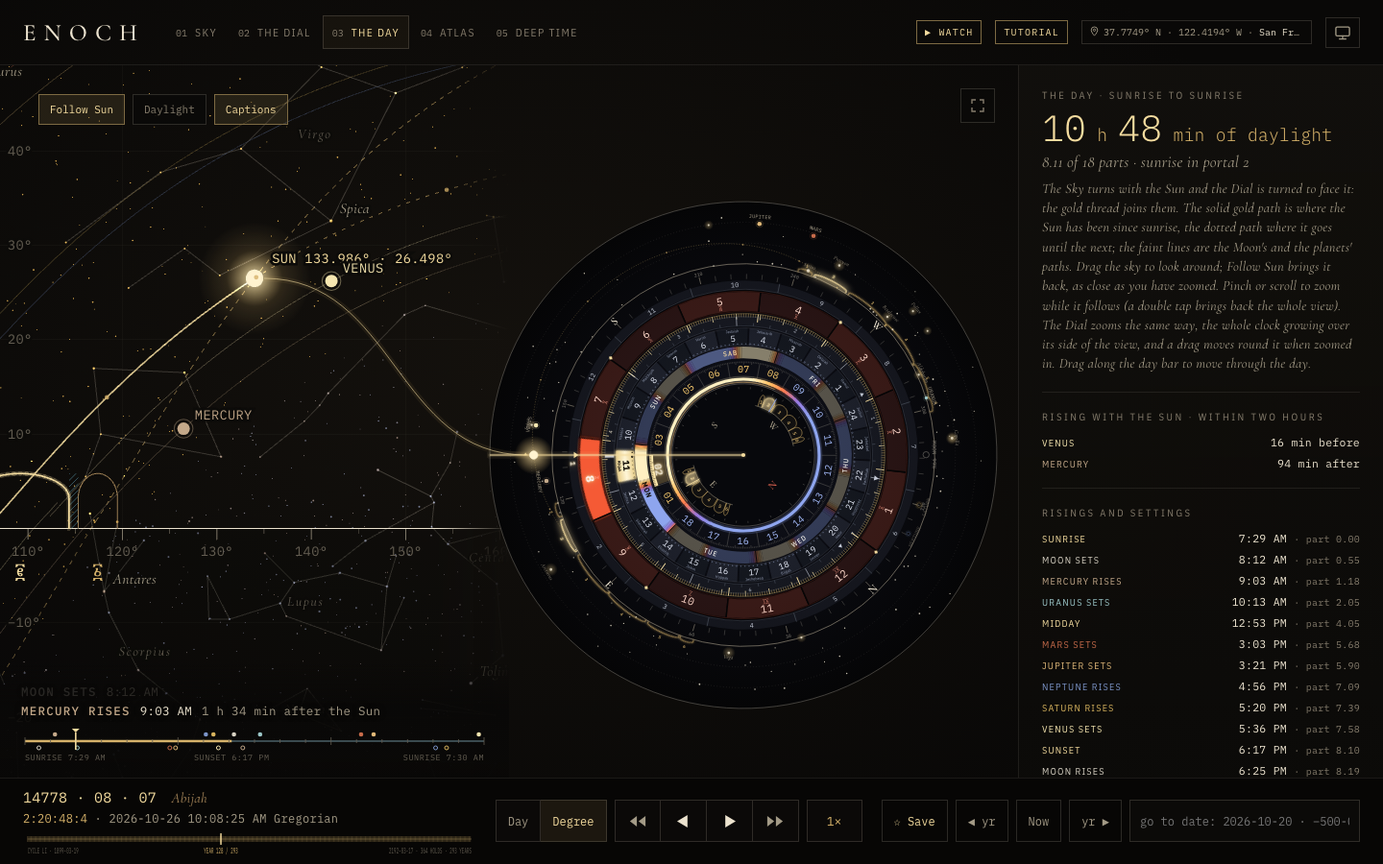
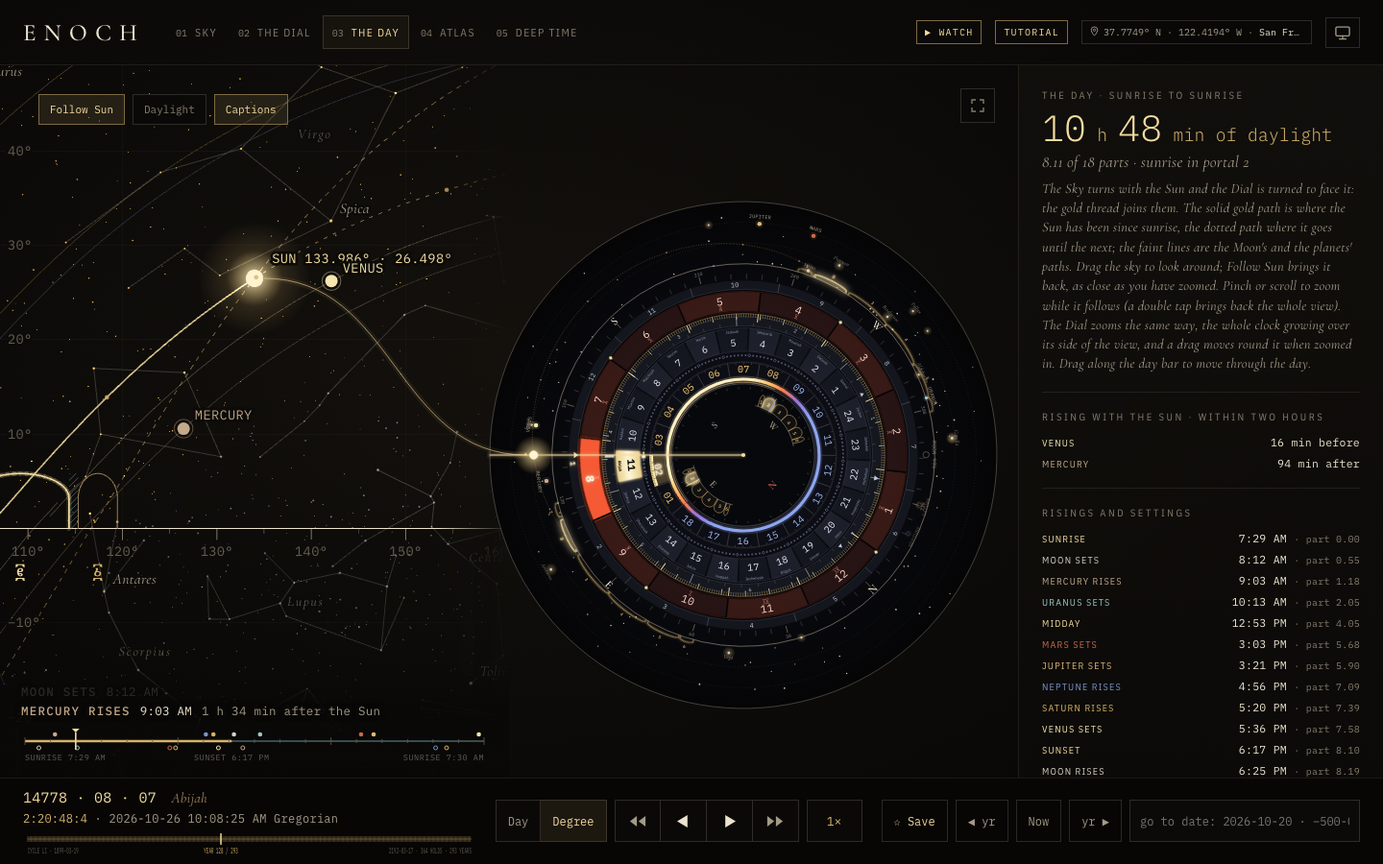
feat(dial): the week back to beads; on paper each ring its own shade and the centre night
The week ring did not work in use: turning once a week, it is a blur in playback and one more band to read. The week is
again a necklace of beads inside the courses, seven under each (Sunday to the Sabbath): served, filled gold; today, the
large lit one; the Sabbath, a ring. They are larger than before the ring (2 units, today 3.6) and belong to the courses'
tap. The courses keep their large numbers, with the width back (19 px numerals).

On paper (Light, Sepia) the inner rings were one tan wash. Each now has its own shade, as each has its own light in Dark:
cool pewter for the courses and the two counts against the warm vellum, the parts on the lightest vellum, gold leaf for
what is now (the course's window, the day's light, the part), lapis for the night, vermilion months. They are tokens
(--dl-tone-*; words on what is lit are --dl-on-lit). And the centre is night there as the sky band is: the sky chart's
stars are in it, so they are light, the portals' arches glow as the rim's do, and the Sun's line is light across the
centre, ink across the paper rings, light again across the band.

Dark changes only by the week (beads for the ring); Sky, Atlas and Deep Time are untouched. 164 paths; playback 60 / 59 /
57 fps as before. The README's Dial screenshots are retaken.

Changed region(s): [[0.4375, 0.3733, 0.625, 0.6533]]

diff --git a/src/dial/render.ts b/src/dial/render.ts
@@ -12,26 +12,24 @@ import { GEEZ, pillars, PORTAL_ALT } from '../model';
 import { archPath, seamPath, within } from './portals';
 import type { YearDoc } from '../types';
 import { ringRotation, type DialState } from './state';
-import { alpha, bodyColor, C as PAGE, DARK, paletteGeneration, paper, starGain, type Palette } from '../palette';
+import { alpha, bodyColor, C as PAGE, DARK, paletteGeneration, paper, starGain, type Palette, type PaletteKey } from '../palette';
 
 const NS = 'http://www.w3.org/2000/svg';
 export const DR = {
   band1: 498, horizon: 376, band0: 356, tick1: 356, tick0: 346, um1: 344, um0: 326, mo1: 322, mo0: 282, pos0: 276,
-  cor1: 272, cor0: 254, crs1: 250, crs0: 216, wk1: 213, wk0: 190, pt1: 184, pt0: 154, day1: 152, day0: 146, cmp: 140,
+  cor1: 272, cor0: 254, crs1: 250, crs0: 204, bead: 196, pt1: 184, pt0: 154, day1: 152, day0: 146, cmp: 140,
 };
-export type RingKey = 'sky' | 'bearing' | 'uncorrected' | 'position' | 'correction' | 'courses' | 'weekday' | 'parts' | 'compass';
+export type RingKey = 'sky' | 'bearing' | 'uncorrected' | 'position' | 'correction' | 'courses' | 'parts' | 'compass';
 /** Hit bands (viewBox radius), outermost first: what a tap on the face selects. */
 const BANDS: { key: RingKey; r0: number; r1: number }[] = [
   { key: 'sky', r0: DR.horizon, r1: DR.band1 + 2 }, { key: 'bearing', r0: DR.band0 - 12, r1: DR.horizon },
   { key: 'uncorrected', r0: DR.um0 - 2, r1: DR.um1 + 1 }, { key: 'position', r0: DR.pos0 - 12, r1: DR.mo1 + 3 },
-  { key: 'correction', r0: DR.cor0 - 2, r1: DR.cor1 + 1 }, { key: 'courses', r0: DR.crs0 - 2, r1: DR.crs1 + 1 }, { key: 'weekday', r0: DR.wk0 - 3, r1: DR.crs0 - 2 },
+  { key: 'correction', r0: DR.cor0 - 2, r1: DR.cor1 + 1 }, { key: 'courses', r0: DR.pt1 + 2, r1: DR.crs1 + 1 },   // the courses, with the week's beads inside them
   { key: 'parts', r0: DR.day0 - 6, r1: DR.pt1 + 2 }, { key: 'compass', r0: 0, r1: DR.cmp },
 ];
 const ALT_MIN = -12, K = (DR.band1 - DR.horizon) / 90;
 const altRadius = (alt: number) => DR.horizon + Math.max(ALT_MIN, alt) * K;
 const MS = [1, 31, 61, 92, 122, 152, 183, 213, 243, 274, 304, 334, 365];
-/** The week, Sunday to the Sabbath (state.ts phases.weekday). */
-const WEEK = ['SUN', 'MON', 'TUE', 'WED', 'THU', 'FRI', 'SAB'];
 
 const rad = (deg: number) => (deg * Math.PI) / 180;
 const polar = (r: number, th: number): [number, number] => [r * Math.sin(rad(th)), -r * Math.cos(rad(th))];
@@ -145,9 +143,9 @@ export function createDial(svg: SVGSVGElement, C: Palette = PAGE) {
       const mark = el('circle', { r: 0.6, fill: 'none', 'data-ring-mark': name }, layer.g);
       rings.push({ name, layer, units, dir, cur, mark, markR }); return { g: layer.g, at, layer };
     };
-    /** A ring's ground between r0 and r1: in light a pane of glass, nearly clear; on paper a wash of ink, toned enough to set the ring off the page. */
-    const tone = (a: number) => (ink ? Math.min(0.5, a * 2.4) : a);
-    const glass = (r0: number, r1: number, a: number, parent: Element) => el('path', { d: dot(0, 0, r1) + dot(0, 0, r0), fill: alpha('dlGlass', tone(a), C), 'fill-rule': 'evenodd' }, parent);
+    /** A ring's ground between r0 and r1. In light: a pane of glass, nearly clear (opacity a). On paper: the ring's own tone, an opaque shade that sets it off the
+     *  page and off its neighbours (cool pewter for the courses and the counts against the warm vellum; the parts on the lightest vellum). */
+    const glass = (r0: number, r1: number, a: number, parent: Element, tone: PaletteKey) => el('path', { d: dot(0, 0, r1) + dot(0, 0, r0), fill: ink ? C[tone] : alpha('dlGlass', a, C), 'fill-rule': 'evenodd' }, parent);
     const hair = (r: number, color: string, opacity: number, parent: Element) => el('circle', { r, fill: 'none', stroke: color, 'stroke-opacity': opacity, 'stroke-width': 0.55 }, parent);
 
     // ------------------------------------------------ world (true bearings, turned by the framing)
@@ -159,7 +157,7 @@ export function createDial(svg: SVGSVGElement, C: Palette = PAGE) {
     for (const alt of [30, 60]) el('circle', { r: altRadius(alt), fill: 'none', stroke: N.dlLine, 'stroke-width': 0.5, 'stroke-dasharray': '1 5' }, W);
     let ticks = '', majors = '';
     for (let b = 0; b < 360; b += 5) if (b % 30) ticks += `M${P(DR.tick0, b)}L${P(DR.tick1, b)}`; else majors += `M${P(DR.tick0, b)}L${P(DR.tick1 + 4, b)}`;
-    if (ink) glass(DR.tick0 - 1, DR.band0, 0.09, W);          // on paper the bearings sit on their own tone
+    if (ink) glass(DR.tick0 - 1, DR.band0, 0, W, 'dlToneBearing');   // on paper the bearings sit on their own tone
     el('path', { d: ticks, stroke: C.dlLine, 'stroke-width': 0.6 }, W); el('path', { d: majors, stroke: C.ivory2, 'stroke-width': 1 }, W);
     for (const [b, t] of [[0, 'N'], [90, 'E'], [180, 'S'], [270, 'W']] as const) world.label(DR.horizon - 10, b, t, { class: 'dl-card' });
     for (let b = 30; b < 360; b += 30) if (b % 90) world.label(DR.horizon - 10, b, String(b), { class: 'dl-tiny' });
@@ -180,30 +178,30 @@ export function createDial(svg: SVGSVGElement, C: Palette = PAGE) {
     }
     // centre: the disc, the optional sky chart (redrawn per instant, screen angles), then on top the compass and the six portals east and west: the same
     // arches as on the horizon and in Sky, standing on the centre's own horizon, numbered 1 to 6, today's two lit; and today's sunrise and sunset bearings
-    el('circle', { r: DR.cmp, fill: C.dlDisc, stroke: C.dlLine, 'stroke-width': 0.8 }, W);
-    chart = el('g', { class: 'dl-chart' }, root) as SVGGElement;
-    centre = new Layer(root, 'dl-centre'); const Z = centre.g;
+    el('circle', { r: DR.cmp, fill: ink ? rgrad('core', 0, DR.cmp, [C.dlRim0, C.dlRim1]) : C.dlDisc, stroke: C.dlLine, 'stroke-width': 0.8 }, W);   // on paper the centre is night as the band is: the sky chart's stars are there, and the portals' arches glow as the rim's do
+    chart = el('g', { class: ink ? 'dl-chart dl-night' : 'dl-chart' }, root) as SVGGElement;
+    centre = new Layer(root, ink ? 'dl-centre dl-night' : 'dl-centre'); const Z = centre.g;
     const inner = (alt: number) => 100 + (alt / PORTAL_ALT) * 24;
     for (const [PP, bearing] of [[doc.portals, s.row.azimuth_deg], [doc.portals_west, e.sunset_azimuth_deg]] as const) {
       const lo = Math.min(...PP.map((p) => p.common[0])) - 3, hi = Math.max(...PP.map((p) => p.common[1])) + 3;
-      el('path', { d: `M${P(100, lo)}A100 100 0 0 1 ${P(100, hi)}`, fill: 'none', stroke: C.ivory2, 'stroke-width': 0.9, class: 'dl-portal' }, Z);
+      el('path', { d: `M${P(100, lo)}A100 100 0 0 1 ${P(100, hi)}`, fill: 'none', stroke: N.ivory2, 'stroke-width': 0.9, class: 'dl-portal' }, Z);
       for (const p of PP) {
         const on = within(p, bearing);
-        el('path', { d: archPath(p, inner), fill: alpha(on ? 'goldHi' : 'gold', on ? 0.2 : 0.05, C), stroke: on ? C.goldHi : C.gold, 'stroke-width': on ? 1.6 : 1, 'stroke-linejoin': 'round',
-          filter: on ? glow('soft') : undefined, class: on ? 'dl-portal dl-arch-on' : 'dl-portal', 'data-portal-in': p.portal }, Z);
+        el('path', { d: archPath(p, inner), fill: alpha(on ? 'goldHi' : 'gold', on ? 0.2 : 0.05, N), stroke: on ? N.goldHi : N.gold, 'stroke-width': on ? 1.6 : 1, 'stroke-linejoin': 'round',
+          filter: on ? glowN('soft') : undefined, class: on ? 'dl-portal dl-arch-on' : 'dl-portal', 'data-portal-in': p.portal }, Z);
         centre.label(110, (p.common[0] + p.common[1]) / 2, String(p.portal), { class: on ? 'dl-pn dl-on' : 'dl-pn' });
       }
     }
-    for (const [b, col] of [[s.row.azimuth_deg, C.goldHi], [e.sunset_azimuth_deg, C.dlSkyNight]] as const) el('path', { d: `M${P(98, b)}L${P(128, b)}`, stroke: col, 'stroke-width': 1.6 }, Z);
+    for (const [b, col] of [[s.row.azimuth_deg, N.goldHi], [e.sunset_azimuth_deg, N.dlSkyNight]] as const) el('path', { d: `M${P(98, b)}L${P(128, b)}`, stroke: col, 'stroke-width': 1.6 }, Z);
     for (const [b, t] of [[0, 'N'], [90, 'E'], [180, 'S'], [270, 'W']] as const) centre.label(82, b, t, { class: b === 0 ? 'dl-cmp dl-north' : 'dl-cmp' });
     let ct = ''; for (let b = 0; b < 360; b += 10) ct += `M${P(130, b)}L${P(b % 90 ? 134 : 138, b)}`;
-    el('path', { d: ct, stroke: C.dlLine, 'stroke-width': 0.6 }, Z);
+    el('path', { d: ct, stroke: N.dlLine, 'stroke-width': 0.6 }, Z);
     bodies = el('g', { class: ink ? 'dl-bodies dl-night' : 'dl-bodies' }, root) as SVGGElement;
 
     // ------------------------------------------------ calendar rings (all continuous: the gear train in state.ts)
     // R6 uncorrected month (the paper's 364-day count, no correction), anticlockwise
     { const { g, at, layer } = ring('uncorrected', 364, -1, (x) => x.phases.uncorrected, (DR.um0 + DR.um1) / 2);
-      glass(DR.um0 + 1, DR.um1 - 1, 0.07, g);
+      glass(DR.um0 + 1, DR.um1 - 1, 0.07, g, 'dlToneCount');
       el('circle', { r: DR.um0, fill: 'none', stroke: C.dlCountDim, 'stroke-width': 0.6 }, g);
       let t = ''; for (let m = 1; m <= 12; m++) { const a0 = at(MS[m - 1] - 1), a1 = at(MS[m] - 1); t += `M${P(DR.um0, a0)}L${P(DR.um1, a0)}`;
         layer.label((DR.um0 + DR.um1) / 2, (a0 + a1) / 2, String(m), { class: m === e.uncorrected_month ? 'dl-um dl-on' : 'dl-um' }); }
@@ -211,7 +209,7 @@ export function createDial(svg: SVGSVGElement, C: Palette = PAGE) {
     // R5 months and the 364 positions (corrected), anticlockwise; hold marks; the quarter leaders. In light the months are ember glass, the month now
     // solid; on paper they are painted (rubricated)
     { const { g, at, layer } = ring('position', 364, -1, (x) => x.phases.position, (DR.mo0 + DR.mo1) / 2);
-      glass(DR.cor0 + 1, DR.cor1 - 1, 0.07, g);              // the correction ring's ground, under this ring's ticks
+      glass(DR.cor0 + 1, DR.cor1 - 1, 0.07, g, 'dlToneCount');   // the correction ring's ground, under this ring's ticks
       for (let m = 1; m <= 12; m++) {
         const a0 = at(MS[m] - 1), a1 = at(MS[m - 1] - 1), on = m === s.row.month;
         el('path', { d: sectorPath(DR.mo0, DR.mo1, a0, a1), fill: on ? C.dlRed : ink ? (m % 2 ? C.dlOx2 : C.dlOx) : alpha('dlRed', m % 2 ? 0.2 : 0.13, C), stroke: C.dlOxEdge, 'stroke-width': ink ? 1.4 : 2.6,
@@ -238,39 +236,30 @@ export function createDial(svg: SVGSVGElement, C: Palette = PAGE) {
       el('path', { d: sectorPath(DR.cor0, DR.cor1, at(e.correction_day - 1), at(e.correction_day)), fill: C.dlCount }, g);
       tri(DR.cor1 - 2, at(0), 'l-5 9h10z', C.dlCount, g);
     }
-    // R3 the 24 priestly courses, anticlockwise; each course is one week. Read at a glance: its number, the course now a lit window. To zoom into: its
-    // name, and the week's seven days as beads along its inner edge (served, filled; today, the large one; the Sabbath, a ring)
+    // R3 the 24 priestly courses, anticlockwise; each course is one week. Read at a glance: its number, the course now a lit window; its name small above
+    // it. Inside the ring, the week's seven days as a necklace of beads, Sunday to the Sabbath under each course: served, filled; today, the large lit one;
+    // the Sabbath, a ring. The Sun's line crosses one a day
     { const { g, at, layer } = ring('courses', 24, -1, (x) => x.phases.courses, (DR.crs0 + DR.crs1) / 2);
       const lit = rgrad('lit', DR.crs0, DR.crs1, [C.dlLitEdge, C.dlLit, C.dlLitEdge]);
+      const plain = ink ? alpha('dlLine', 0.5, C) : alpha('dlGlass', 0.4, C), sabbath = ink ? C.dlLine : alpha('dlGlass', 0.75, C);
       doc.priests.courses.forEach((c, k) => {
         const a0 = at(k + 1), a1 = at(k), on = c.n === e.course;
-        el('path', { d: sectorPath(DR.crs0, DR.crs1, Math.min(a0, a1) + 0.4, Math.max(a0, a1) - 0.4), fill: on ? lit : alpha('dlGlass', tone(k % 2 ? 0.11 : 0.06), C), filter: on ? glow('soft') : undefined,
-          'data-course': on ? 'on' : undefined }, g);
-        layer.label(DR.crs1 - 6, (a0 + a1) / 2, c.name, { class: on ? 'dl-cname dl-on-dark' : 'dl-cname' });
-        layer.label(DR.crs0 + 14, (a0 + a1) / 2, String(c.n), { class: on ? 'dl-cnum dl-on-dark' : 'dl-cnum' });
+        el('path', { d: sectorPath(DR.crs0, DR.crs1, Math.min(a0, a1) + 0.4, Math.max(a0, a1) - 0.4), fill: on ? lit : ink ? (k % 2 ? C.dlToneCourse2 : C.dlToneCourse) : alpha('dlGlass', k % 2 ? 0.11 : 0.06, C), filter: on ? glow('soft') : undefined,
+          stroke: on && ink ? C.dlLitEdge : undefined, 'stroke-width': on && ink ? 0.8 : undefined, 'data-course': on ? 'on' : undefined }, g);
+        layer.label(DR.crs1 - 7, (a0 + a1) / 2, c.name, { class: on ? 'dl-cname dl-on-dark' : 'dl-cname' });
+        layer.label(DR.crs0 + 17, (a0 + a1) / 2, String(c.n), { class: on ? 'dl-cnum dl-on-dark' : 'dl-cnum' });
         for (let d = 0; d < 7; d++) {
-          const [bx, by] = polar(DR.crs0 + 2.5, at(k + (d + 0.5) / 7)), today = on && d + 1 === e.weekday, past = on && d + 1 < e.weekday, sab = d === 6;
-          const bead = on ? C.onGold : alpha('dlGlass', 0.75, C);
-          el('circle', { cx: bx.toFixed(2), cy: by.toFixed(2), r: today ? 2.3 : 1.35, fill: today || past ? bead : sab ? 'none' : on ? alpha('onGold', 0.35, C) : alpha('dlGlass', 0.4, C),
-            stroke: sab && !today ? bead : 'none', 'stroke-width': 0.6, 'data-day': today ? 'on' : undefined }, g);
+          const [bx, by] = polar(DR.bead, at(k + (d + 0.5) / 7)), today = on && d + 1 === e.weekday, past = on && d + 1 < e.weekday, sab = d === 6;
+          el('circle', { cx: bx.toFixed(2), cy: by.toFixed(2), r: today ? 3.6 : sab ? 2.4 : on ? 2.3 : 1.9, fill: today ? C.dlLit : past ? C.gold : sab ? 'none' : plain,
+            stroke: today ? (ink ? C.dlLitEdge : undefined) : sab ? (past ? C.gold : sabbath) : undefined, 'stroke-width': today ? 0.8 : sab ? 0.8 : undefined,
+            filter: today ? glow('lit') : undefined, 'data-day': today ? 'on' : undefined }, g);
         }
       });
       for (const r of [DR.crs0, DR.crs1]) hair(r, C.dlCourse, ink ? 0.5 : 0.28, g); }
-    // R2 the week, Sunday to the Sabbath, anticlockwise, a turn a week: each day's arc is that day's sky, sunrise round to the next sunrise, by its own
-    // measure of light (a day begins at sunrise). Today's is lit; the others the same sky, dimmed
-    { const { g, at, layer } = ring('weekday', 7, -1, (x) => x.phases.weekday, (DR.wk0 + DR.wk1) / 2);
-      WEEK.forEach((name, d) => {
-        const a0 = at(d + 1), a1 = at(d), today = d + 1 === e.weekday, sab = d === 6;
-        const dp = doc.extended[s.i - (e.weekday - 1) + d]?.day_parts ?? s.dayParts;
-        if (today && !ink) skyArc(g, DR.wk0 - 3, DR.wk1 + 3, (f) => at(d + f), 2, dp, { opacity: 0.16 });   // its light, spread (shapes, not a blur: this ring turns every frame)
-        skyArc(g, DR.wk0, DR.wk1, (f) => at(d + f), today ? 4 : 2, dp, { opacity: today ? 1 : sab ? 0.5 : 0.3, 'data-weekday': today ? 'on' : undefined });
-        el('path', { d: `M${P(DR.wk0, a1)}L${P(DR.wk1, a1)}`, stroke: C.dlSpace2, 'stroke-width': 1.6 }, g);   // the sunrise that begins it
-        layer.label((DR.wk0 + DR.wk1) / 2, (a0 + a1) / 2, name, { class: today ? 'dl-wk dl-on-dark' : sab ? 'dl-wk dl-sab' : 'dl-wk' });
-      }); }
     // R1 the 18 parts of the day, clockwise, gliding: beside them the day's sky (its light from the measured sunrise to sunset, then its night); each part
     // 20 degrees, ticked along the rim (a longer one every 5); the part now is lit and its degrees run so far a bar (update)
     { const { g, at, layer } = ring('parts', 18, 1, (x) => x.phases.parts, (DR.pt0 + DR.pt1) / 2);
-      if (ink) glass(DR.pt0, DR.pt1, 0.05, g);                // on paper the parts sit on their own tone
+      if (ink) glass(DR.pt0, DR.pt1, 0, g, 'dlToneParts');     // on paper the parts sit on their own tone, the lightest
       partHi = el('path', { class: 'dl-part-hi' }, g);
       if (!ink) skyArc(g, DR.day0 - 3.5, DR.day1 + 3.5, (f) => at(18 * f), 2, s.dayParts, { opacity: 0.2 });   // the sky's light, spread
       skyArc(g, DR.day0, DR.day1, (f) => at(18 * f), 5, s.dayParts, { 'data-sky': '1' });
@@ -306,13 +295,13 @@ export function createDial(svg: SVGSVGElement, C: Palette = PAGE) {
     }
     // the part now, lit; its 20 degrees run so far, a bar along the rim with its ticks in ink over it; the numerals gold by day, periwinkle by night
     const p = s.time.part, byDay = p - 0.5 < s.dayParts;
-    partHi!.setAttribute('d', sectorPath(DR.pt0, DR.pt1, (p - 1) * 20 + 0.6, p * 20 - 0.6)); partHi!.setAttribute('fill', alpha(byDay ? 'dlPday' : 'dlPnight', 0.24, C));
+    partHi!.setAttribute('d', sectorPath(DR.pt0, DR.pt1, (p - 1) * 20 + 0.6, p * 20 - 0.6)); partHi!.setAttribute('fill', paper() ? alpha(byDay ? 'dlSkyDay' : 'dlSkyNight', byDay ? 0.55 : 0.3, C) : alpha(byDay ? 'dlPday' : 'dlPnight', 0.24, C));   // on paper: gold leaf by day, a wash of lapis by night
     degRun!.setAttribute('d', sectorPath(DR.pt1 - 6.5, DR.pt1 + 0.8, (p - 1) * 20, Math.max((p - 1) * 20 + 0.3, s.part * 20))); degRun!.setAttribute('fill', byDay ? C.dlRunDay : C.dlRunNight);
     let run = ''; for (let k = (p - 1) * 20; k <= Math.floor(s.part * 20); k++) run += `M${P(DR.pt1 - (k % 20 === 0 ? 6.5 : k % 5 === 0 ? 6 : 3.2), k)}L${P(DR.pt1 + 0.6, k)}`;
     degInk!.setAttribute('d', run);
     parts.forEach((n, k) => n.setAttribute('class', `dl-part ${k + 0.5 < s.dayParts ? 'dl-pday' : 'dl-pnight'}${k + 1 === s.time.part ? ' dl-on' : ''}`));
     world!.turn(s.F); centre!.turn(s.F);
-    centre!.g.setAttribute('class', `dl-centre dl-centre-${sky.centre}`);
+    centre!.g.setAttribute('class', `dl-centre dl-centre-${sky.centre}${paper() ? ' dl-night' : ''}`);
     drawBodies(s, sky); drawChart(s, sky); drawNeedle(s);
     return { rings: report };
   }
@@ -353,22 +342,15 @@ export function createDial(svg: SVGSVGElement, C: Palette = PAGE) {
   function drawChart(s: DialState, sky: SkyLayers) {
     const G = chart!; G.replaceChildren();
     if (sky.centre === 'off') return;
+    const C = night();                                     // the centre is night as the sky band is: its stars are light in every theme
     const th = (az: number) => (sky.centre === 'above' ? az + s.F : -(az + s.F));
     const at = (az: number, alt: number) => polar(chartRadius(alt), th(az));
     for (const alt of [30, 60]) el('circle', { r: chartRadius(alt), fill: 'none', stroke: C.ivory3, 'stroke-width': 0.4, 'stroke-dasharray': '1 4' }, G);
     el('path', { d: 'M-3 0h6M0 -3v6', stroke: C.ivory3, 'stroke-width': 0.6 }, G);
     if (sky.figures) el('path', { d: figurePath(s, sky.figures, at, false), fill: 'none', stroke: C.silver, 'stroke-width': 0.5, opacity: 0.5, 'data-figures': 'chart' }, G);
     let stars = '';
-    // on paper a star needs a real mark (~1 px at the least on a phone) and the bright ones bold; the faint field lighter
-    const ink = paper(); let faint = '', mid = '';                 // on paper: three tiers, the faint field light, the bright stars bold
-    for (const st of s.bright) if (st.alt > 0) {
-      const [x, y] = at(st.az, st.alt), m = st.mag ?? 3;
-      if (!ink) stars += dot(x, y, Math.max(0.35, 1.7 - 0.3 * m));
-      else if (m > 4.5) faint += dot(x, y, 0.85); else if (m > 2.5) mid += dot(x, y, 1.3); else stars += dot(x, y, Math.max(1.8, 3.3 - 0.45 * m));
-    }
-    if (faint) el('path', { d: faint, fill: C.starInk, opacity: 0.3 }, G);
-    if (mid) el('path', { d: mid, fill: C.starInk, opacity: 0.8 }, G);
-    el('path', { d: stars, fill: C.starInk, opacity: ink ? 1 : 0.7, 'data-chart-stars': '1' }, G);
+    for (const st of s.bright) if (st.alt > 0) { const [x, y] = at(st.az, st.alt); stars += dot(x, y, Math.max(0.35, 1.7 - 0.3 * (st.mag ?? 3))); }
+    el('path', { d: stars, fill: C.starInk, opacity: 0.7, 'data-chart-stars': '1' }, G);
     const mark = (name: string, az: number, alt: number, r: number, fill: string, halo = false) => {
       if (alt <= 0) return; const [x, y] = at(az, alt);
       if (halo) el('circle', { cx: x, cy: y, r: r + 1.7, fill: 'none', stroke: fill, 'stroke-width': 0.5, opacity: 0.45 }, G);
@@ -390,12 +372,17 @@ export function createDial(svg: SVGSVGElement, C: Palette = PAGE) {
     const G = needle!, N = s.needle; G.replaceChildren();
     const up = s.sun.alt > 0, sr = up ? altRadius(s.sun.alt) : DR.band0 + 3, [sx, sy] = polar(sr, N), [tx, ty] = polar(DR.band1, N);
     const Nt = night(), dash = up ? undefined : '6 4';
-    const beam = (x1: number, y1: number) => { for (const [w, o] of [[14, 0.07], [7, 0.16]] as const) el('line', { x1, y1, x2: tx, y2: ty, stroke: Nt.goldHi, 'stroke-width': w, opacity: o, 'stroke-linecap': 'round' }, G); };   // its light (two wide strokes: a filter cannot blur a straight line, whose box has no width)
-    if (!paper()) { beam(0, 0); el('line', { x1: 0, y1: 0, x2: tx, y2: ty, stroke: C.goldHi, 'stroke-width': 2, 'stroke-dasharray': dash, 'data-needle': '1' }, G); }
-    else {                                                 // on paper: ink across the rings, then light across the night of the sky band
-      const [bx, by] = polar(DR.band0, N);
-      el('line', { x1: 0, y1: 0, x2: bx, y2: by, stroke: C.goldHi, 'stroke-width': 1.6, 'stroke-dasharray': dash, opacity: 0.9, 'data-needle': '1' }, G);
-      beam(bx, by); el('line', { x1: bx, y1: by, x2: tx, y2: ty, stroke: Nt.goldHi, 'stroke-width': 2, 'stroke-dasharray': dash }, G);
+    /** The line as light from (x1, y1) to (x2, y2): two wide soft strokes under it (a filter cannot blur a straight line, whose box has no width). */
+    const beam = (x1: number, y1: number, x2: number, y2: number, mark = false) => {
+      for (const [w, o] of [[14, 0.07], [7, 0.16]] as const) el('line', { x1, y1, x2, y2, stroke: Nt.goldHi, 'stroke-width': w, opacity: o, 'stroke-linecap': 'round' }, G);
+      el('line', { x1, y1, x2, y2, stroke: Nt.goldHi, 'stroke-width': 2, 'stroke-dasharray': dash, 'data-needle': mark ? '1' : undefined }, G);
+    };
+    if (!paper()) beam(0, 0, tx, ty, true);
+    else {                                                 // on paper: light across the night of the centre, ink across the rings, light again across the sky band
+      const [cx, cy] = polar(DR.cmp, N), [bx, by] = polar(DR.band0, N);
+      beam(0, 0, cx, cy);
+      el('line', { x1: cx, y1: cy, x2: bx, y2: by, stroke: C.goldHi, 'stroke-width': 1.6, 'stroke-dasharray': dash, opacity: 0.9, 'data-needle': '1' }, G);
+      beam(bx, by, tx, ty);
     }
     tri(DR.mo1 + 2, N, 'l-6 -9h12z', C.goldHi, G);
     // the Sun's motion along the horizon: an arc arrow whose length is the azimuth rate (20 units per °/min)
@@ -407,7 +394,7 @@ export function createDial(svg: SVGSVGElement, C: Palette = PAGE) {
     }
     el('circle', { cx: sx, cy: sy, r: 38, fill: `url(#${id}-glow)` }, G);
     el('circle', { cx: sx, cy: sy, r: 8, fill: up ? Nt.sunCore : 'none', stroke: Nt.sunCore, 'stroke-width': 1.5, 'data-body': 'sun' }, G);
-    el('circle', { r: 4, fill: C.goldHi }, G);
+    el('circle', { r: 4, fill: Nt.goldHi }, G);
   }
 
   return { build, update };

diff --git a/src/dial/view.ts b/src/dial/view.ts
@@ -38,7 +38,7 @@ const EXPLORE: (Site & { date: string; note: string })[] = [
 /** Which view reads each ring in full. */
 const VIEW_OF: Record<RingKey, [string, string]> = {
   sky: ['sky', 'Sky'], bearing: ['quarters', 'Four Quarters'], uncorrected: ['wheel', 'The Wheel'], position: ['wheel', 'The Wheel'],
-  correction: ['wheel', 'The Wheel'], courses: ['wheel', 'The Wheel'], weekday: ['wheel', 'The Wheel'], parts: ['sky', 'Sky'], compass: ['gate', 'Gate of the East'],
+  correction: ['wheel', 'The Wheel'], courses: ['wheel', 'The Wheel'], parts: ['sky', 'Sky'], compass: ['gate', 'Gate of the East'],
 };
 
 /** The app's side of the Dial: where its details go, and what it asks of the app. */
@@ -233,10 +233,8 @@ export function createDialView(host: HTMLElement, head: { title: HTMLElement; pr
         kv('Date', `${r.month}/${r.day}`) + kv('Position', `${r.corrected_doy}/364 · ${s.positionDeg}°`) + kv('Portal', e.portal) + kv('Verse', e.verse)],
       correction: ['The 294-day correction', '294 = 7 × 42 and 42 = 7 × 6: seven weeks of 42 days, each seven weeks of six. A hold opens every cycle (the pale triangle).',
         kv('Day', `${e.correction_day}/294`) + kv('Week of 42', `${e.correction_42}/7`) + kv('Week of 6', `${e.correction_6}/7 · day ${e.correction_day_of_6}/6`) + kv('Next hold', `${e.days_to_next_hold} days`) + kv('Holds this cycle', `${e.holds_done_in_cycle} done · ${e.holds_remaining_in_cycle} left`)],
-      courses: ['The 24 priestly courses', 'Sunday-to-Sabbath weeks in the Qumran order from Gamul, unbroken from the epoch; 24 weeks a rotation, 13 rotations in six years. Each course is one week: its number is large, its name above it; the course now is the lit window. The seven beads along its inner edge are the week’s days: filled as they are served, today’s the large one, the Sabbath a ring.',
+      courses: ['The 24 priestly courses', 'Sunday-to-Sabbath weeks in the Qumran order from Gamul, unbroken from the epoch; 24 weeks a rotation, 13 rotations in six years. Each course is one week: its number is large, its name above it; the course now is the lit window. Inside the ring, the week’s seven days are beads, Sunday to the Sabbath under each course: filled as they are served, today’s the large lit one, the Sabbath a ring. The Sun’s line crosses one a day, and the day changes at sunrise, not midnight.',
         kv('Day', `${e.weekday}. ${e.weekday_name}`) + kv('Began', `${civil(r.sunrise_local)} ${clockText(timeOf(r.sunrise_local))}`) + kv('Course', `${e.course}. ${e.course_name}`) + kv('Chronicles', `${e.course_chronicles}${course?.kjv ? ` · KJV ${course.kjv}` : ''}`) + kv('Week', `${civil(e.course_week_start)} → ${civil(e.course_week_end)}`) + kv('Six-year', `${e.six_year_cycle}/49 · year ${e.six_year_year}/6 · week ${e.six_year_week}`)],
-      weekday: ['The week', 'Seven days, Sunday to the Sabbath; the ring turns once a week and today’s arc is lit. Each arc is that day’s own sky from its sunrise round to the next: gold its light, by its measure, through dusk into the blue of its night. The day changes at sunrise, not midnight.',
-        kv('Day', `${e.weekday}. ${e.weekday_name}`) + kv('Began', `${civil(r.sunrise_local)} ${clockText(timeOf(r.sunrise_local))}`) + kv('Daylight', `${s.dayParts.toFixed(2)} of 18 parts`) + kv('Course', `${e.course}. ${e.course_name}`)],
       parts: ['The 18 parts of the day', 'Equal parts from sunrise to the next sunrise, gliding clockwise; the part now is lit. Beside them, the day’s sky: gold its light as measured today, blue its night; bronze, the text’s ratio for this month. Each part has 20 degrees, ticked along the rim (a longer tick every 5): the bar is how far through them it is. Each degree has 60 minutes, each minute 4 seconds: 86,400 a day.',
         kv('Time', `${t.part}:${t.deg}:${t.min}:${t.sec}`) + kv('Unit', `${t.units.toLocaleString('en-US')} / 86,400`) + kv('Daylight', `${s.dayParts.toFixed(2)} parts (text ${s.textParts.toFixed(2)})`)],
       compass: [st.sky.centre === 'off' ? 'Compass and portals' : 'The sky overhead', `${st.sky.centre === 'up' ? '' : 'The six portals east (sunrise) and west (sunset) on true bearings, as arches numbered 1 to 6; today’s two are lit. Gold tick: today’s sunrise; blue: today’s sunset. '}${st.sky.centre === 'off' ? '' : 'The centre chart: the whole sky above the horizon in a stereographic projection (shapes kept), zenith in the middle, 30° and 60° dotted. '}${st.sky.centre === 'above' ? 'Seen from above, on the compass’s bearings: figures mirrored.' : st.sky.centre === 'up' ? 'Looking up: east on the left, figures as seen.' : ''}`,
@@ -297,7 +295,7 @@ export function createDialView(host: HTMLElement, head: { title: HTMLElement; pr
      <p class="note">Gold: the Sun's azimuth. Silver: its speed, up to <span id="dl-maxrate"></span>°/min in daylight. Dashed: where the Sun's line reverses.</p></div>
      <div class="section"><div class="eyebrow">Bodies · azimuth · altitude</div><dl class="read" id="dl-bodies"></dl></div>
      <div class="section"><div class="eyebrow">Explore the Sun's speed</div><div class="dl-explore">${EXPLORE.map((x, k) => `<button class="btn" data-explore="${k}" title="${x.note}">${x.name} · ${x.date.slice(5)}</button>`).join('')}</div></div>
-     <div class="section"><div class="eyebrow">How to read it</div><p class="note">Every ring is turned so its current value sits on the Sun's line, and what is now is lit: the month, the course, the weekday, the part. From the rim inward: the uncorrected month, the months and their 364 positions, the 294-day correction, the 24 courses (each a week, by its number; its name and the week's seven beads when you zoom), the week (each day's arc its own sky: gold its light, blue its night) and the 18 parts of the day beside the day's sky. All turn continuously, as gears on one clock, so the Sun's line reads each exact value (3.4 days into the week). Calendar rings count anticlockwise, the day clockwise. The centre and the outer band are true bearings; the rings are counters, not compass scales. Tap a ring for its reading.</p></div></div>`;
+     <div class="section"><div class="eyebrow">How to read it</div><p class="note">Every ring is turned so its current value sits on the Sun's line, and what is now is lit: the month, the course, the day of the week, the part. From the rim inward: the uncorrected month, the months and their 364 positions, the 294-day correction, the 24 courses (each a week, by its number, its name above it; inside them the week's seven days as beads, today's lit) and the 18 parts of the day beside the day's sky (gold its light, blue its night). All turn continuously, as gears on one clock, so the Sun's line reads each exact value (3.4 days into the week). Calendar rings count anticlockwise, the day clockwise. The centre and the outer band are true bearings; the rings are counters, not compass scales. Tap a ring for its reading.</p></div></div>`;
   }
   /** Today's Sun: azimuth and speed, sunrise to sunrise (redrawn once a day; the chart keeps its size). */
   function trace(s: DialState) {

diff --git a/src/theme.css b/src/theme.css
@@ -54,8 +54,7 @@
   /* Atlas's globe: the sea and the land, on the night side and the day side; the latitudes the calculator refuses */
   --globe-sea: #0a0a0c; --globe-sea-day: #171511; --globe-land: #26231e; --globe-land-day: #705c3a; --globe-polar: #782622;
   /* The Dial: rings of light on space, not painted bands. Its colours are the sky's own day, so each has a reason: gold the day's light, ember its rising and
-     setting (and the months'), periwinkle its night, violet only where they meet; all that is neither day nor night (the courses, the week's names, the
-     counts) is starlight. What is now is solid; the rest is glass and hairline. A theme gives the same roles its own values. */
+     setting (and the months'), periwinkle its night, violet only where they meet; all that is neither day nor night (the courses, the counts) is starlight. What is now is solid; the rest is glass and hairline. A theme gives the same roles its own values. */
   --dl-space0: #13151f; --dl-space1: #0a0b11; --dl-space2: #050506;   /* the ground under the instrument: centre, middle, rim */
   --dl-rim0: #0a0b11; --dl-rim1: #050506;                     /* the sky band's night ground where the page is paper: horizon, rim */
   --dl-disc: #07080c; --dl-line: #8a867d;                     /* the centre (the compass, or the sky chart); hairlines, ticks and tiny numbers */
@@ -66,8 +65,8 @@
   --dl-month: #ffd9cb; --dl-month-on: #ffffff; --dl-geez: #ff9d86;
   --dl-glass: #b2c4ee;                                        /* a ring's ground: this, nearly clear */
   --dl-course: #e6ebf8; --dl-course-name: #99a3ba; --dl-count: #c3c9d6; --dl-count-dim: #666d7c;   /* starlight: the courses; the two counts and their lines */
-  --dl-week: #f4f1ea; --dl-sab: #ffe0a0;                      /* the week's names; the Sabbath's */
-  --dl-lit: #fff6d8; --dl-lit-edge: #e9cf8a;                  /* the course now: a lit window (words on it are --on-gold) */
+  --dl-lit: #fff6d8; --dl-lit-edge: #e9cf8a; --dl-on-lit: #120e08;   /* the course now: a lit window, and the words on it; today's bead */
+  --dl-tone-course: #15171d; --dl-tone-course2: #101217; --dl-tone-count: #0f1014; --dl-tone-parts: #0a0b11; --dl-tone-bearing: #0a0b11;   /* a ring's own shade, where the theme paints its ground (paper); in light the grounds are glass */
   --dl-sage: #8fb08a;                                         /* the uncorrected date in the Dial's counts */
   --serif: "Cormorant", "Ethiopic", serif; --mono: "Plex Mono", ui-monospace, monospace; --cond: "Plex Cond", sans-serif; --geez: "Ethiopic", serif;
 }
@@ -95,11 +94,12 @@
   --star-ink: #0d0a05; --sky-ground: #d6c8a8; --sky-day: #b7ccd6;
   --globe-sea: #c9c8bd; --globe-sea-day: #e3e6df; --globe-land: #ad9771; --globe-land-day: #d4bd8f; --globe-polar: #a4382a;
   --dl-space0: #f1e9d8; --dl-space1: #ebe2cd; --dl-space2: #e6dcc6; --dl-rim0: #1c1712; --dl-rim1: #0d0b08; --dl-disc: #e8dfc9; --dl-line: #695f4c;
-  --dl-sky-day: #b07a10; --dl-sky-amber: #b8641a; --dl-sky-ember: #b03a22; --dl-sky-violet: #5a4496; --dl-sky-night: #2f4a86;
-  --dl-pday: #6e4f0c; --dl-pnight: #2c4a86; --dl-run-day: #9a6a0e; --dl-run-night: #35528f; --dl-run-ink: #fdf9ef;
+  --dl-sky-day: #e2b440; --dl-sky-amber: #e08a2c; --dl-sky-ember: #cf4a2e; --dl-sky-violet: #6a52a8; --dl-sky-night: #2f4a9a;   /* gold leaf, through vermilion, to lapis */
+  --dl-pday: #7a560a; --dl-pnight: #27408a; --dl-run-day: #9a6a0e; --dl-run-night: #35528f; --dl-run-ink: #fdf9ef;
   --dl-red: #cf4a2e; --dl-ox: #a4382a; --dl-ox2: #943023; --dl-ox-edge: #ebe2cd; --dl-month: #f6e2d6; --dl-month-on: #fffaf0; --dl-geez: #ecc9b8;
   --dl-glass: #6b5524; --dl-course: #2b2418; --dl-course-name: #3d3628; --dl-count: #2f4a52; --dl-count-dim: #7c8d91;
-  --dl-week: #2b2418; --dl-sab: #5a3c00; --dl-lit: #6e4f0c; --dl-lit-edge: #5a3c00; --dl-sage: #3d6537;
+  --dl-lit: #f3d778; --dl-lit-edge: #d2a02a; --dl-on-lit: #1a1408; --dl-sage: #3d6537;
+  --dl-tone-course: #cdd3d3; --dl-tone-course2: #bfc7c8; --dl-tone-count: #dadedb; --dl-tone-parts: #f5efe0; --dl-tone-bearing: #d2c29b;   /* pewter against the vellum; the parts the lightest */
 }
 
 
@@ -123,11 +123,12 @@
   --star-ink: #0d0804; --sky-ground: #c3ae86; --sky-day: #a7bcc4;
   --globe-sea: #b4b1a0; --globe-sea-day: #d2d3c6; --globe-land: #977f58; --globe-land-day: #c0a575; --globe-polar: #8f2a17;
   --dl-space0: #ddcdab; --dl-space1: #d6c5a2; --dl-space2: #d0be9a; --dl-rim0: #1b150e; --dl-rim1: #0c0906; --dl-disc: #d2c09c; --dl-line: #5e4c33;
-  --dl-sky-day: #9a6a0e; --dl-sky-amber: #a0561a; --dl-sky-ember: #9a2f1c; --dl-sky-violet: #4c3a86; --dl-sky-night: #263f78;
-  --dl-pday: #5c3d00; --dl-pnight: #263f78; --dl-run-day: #7f5609; --dl-run-night: #263f78; --dl-run-ink: #f3e8cf;
+  --dl-sky-day: #d9aa30; --dl-sky-amber: #cf7d24; --dl-sky-ember: #b83a22; --dl-sky-violet: #5a4496; --dl-sky-night: #263f88;
+  --dl-pday: #5c3d00; --dl-pnight: #223a7c; --dl-run-day: #7f5609; --dl-run-night: #263f78; --dl-run-ink: #f3e8cf;
   --dl-red: #b83a22; --dl-ox: #8f2c1e; --dl-ox2: #7f2618; --dl-ox-edge: #d6c5a2; --dl-month: #f3dccd; --dl-month-on: #fff6e8; --dl-geez: #e8c2ae;
   --dl-glass: #5c4a22; --dl-course: #1c1209; --dl-course-name: #3a2b19; --dl-count: #233d44; --dl-count-dim: #5f6b6e;
-  --dl-week: #1c1209; --dl-sab: #3d2700; --dl-lit: #5c3d00; --dl-lit-edge: #3d2700; --dl-sage: #2f5329;
+  --dl-lit: #edd06c; --dl-lit-edge: #c4912a; --dl-on-lit: #1a1408; --dl-sage: #2f5329;
+  --dl-tone-course: #bfc4bd; --dl-tone-course2: #b1b8b2; --dl-tone-count: #cccbbc; --dl-tone-parts: #e8dcbd; --dl-tone-bearing: #bda977;
 }
 
 /* On paper (Light, Sepia) nothing is left faint to read: labels over the globe get a paper halo; a body below the horizon
@@ -162,7 +163,7 @@
   --dl-pday: #ffdc8a; --dl-pnight: #bccdff; --dl-run-day: #fff0c2; --dl-run-night: #cfdcff; --dl-run-ink: #000000;
   --dl-red: #ff7a55; --dl-ox: #3a1c16; --dl-ox2: #4d241b; --dl-ox-edge: #000000; --dl-month: #ffe6dc; --dl-month-on: #000000; --dl-geez: #ffc4ae;
   --dl-glass: #c8d6fa; --dl-course: #ffffff; --dl-course-name: #c9d2e6; --dl-count: #e3e8f2; --dl-count-dim: #9aa3b5;
-  --dl-week: #ffffff; --dl-sab: #ffe9b0; --dl-lit: #fffaf0; --dl-lit-edge: #ffe9ad; --dl-sage: #b6e0ae;
+  --dl-lit: #fffaf0; --dl-lit-edge: #ffe9ad; --dl-on-lit: #000000; --dl-sage: #b6e0ae;
 }
 
 /* Red: the Contrast palette through a red filter (index.html #night-red: the light of each pixel, in red alone, dimmed), over

diff --git a/src/dial/face.css b/src/dial/face.css
@@ -40,15 +40,14 @@
 .dl-body { font-family: var(--mono); font-size: 10px; fill: var(--ivory2); }
 .dl-moon { font-family: var(--mono); font-size: 11px; fill: var(--ivory); }
 .dl-below { opacity: .45; }
-/* Read at a glance on a phone (about 9 px there): the months, the parts, the week's names, the courses' numbers. Fine engraving, to zoom into: the rest. */
+/* Read at a glance on a phone (about 9 px there): the months, the parts, the courses' numbers. Fine engraving, to zoom into: the rest. */
 .dl-um { font-family: var(--mono); font-size: 13px; fill: var(--dl-count); } .dl-um.dl-on { fill: var(--ivory); font-weight: 600; }
 .dl-month { font-family: var(--mono); font-size: 21px; fill: var(--dl-month); } .dl-month.dl-on { fill: var(--dl-month-on); font-weight: 600; }
 .dl-geez { font-family: var(--geez); font-size: 11px; fill: var(--dl-geez); opacity: .75; }
 .dl-cor { font-family: var(--mono); font-size: 10px; fill: var(--dl-count); } .dl-cor.dl-on { fill: var(--ivory); }
-.dl-cnum { font-family: var(--mono); font-size: 17px; fill: var(--dl-course); }                       /* a course, by its number */
+.dl-cnum { font-family: var(--mono); font-size: 19px; fill: var(--dl-course); }                       /* a course, by its number */
 .dl-cname { font-family: var(--cond); font-size: 7.5px; letter-spacing: .04em; fill: var(--dl-course-name); }   /* and its name, small */
-.dl-wk { font-family: var(--cond); font-size: 13.5px; font-weight: 500; letter-spacing: .14em; fill: var(--dl-week); } .dl-wk.dl-sab { fill: var(--dl-sab); }
-.dl-on-dark { fill: var(--on-gold) !important; font-weight: 600; }                                    /* words on what is lit: the course now, today */
+.dl-on-dark { fill: var(--dl-on-lit) !important; font-weight: 600; }                                 /* words on what is lit: the course now */
 .dl-part { font-family: var(--mono); font-size: 19px; } .dl-pday { fill: var(--dl-pday); } .dl-pnight { fill: var(--dl-pnight); } .dl-part.dl-on { fill: var(--ivory); font-weight: 600; }
 .dl-pn { font-family: var(--mono); font-size: 9.5px; font-weight: 500; fill: var(--gold); } .dl-pn.dl-on { fill: var(--gold-hi); font-weight: 600; } .dl-pn-rim { font-size: 8.5px; }   /* a portal's number, 1 to 6 */
 /* What is now has its own light, where the theme draws in light (on paper, ink has none) */

diff --git a/tests/dial-rings.test.ts b/tests/dial-rings.test.ts
@@ -1,18 +1,18 @@
-// The Dial's rings as a tap finds them (src/dial/render.ts hitBand, DR): each ring has its band, the week its own between the parts and the courses.
+// The Dial's rings as a tap finds them (src/dial/render.ts hitBand, DR): each ring has its band; the week's beads belong to the courses.
 import { test } from 'node:test';
 import assert from 'node:assert/strict';
 import { DR, hitBand } from '../src/dial/render';
 
 test('a tap at each ring\'s middle radius selects that ring', () => {
-  const mid: [string, number][] = [['compass', 60], ['parts', (DR.pt0 + DR.pt1) / 2], ['weekday', (DR.wk0 + DR.wk1) / 2], ['courses', (DR.crs0 + DR.crs1) / 2], ['correction', (DR.cor0 + DR.cor1) / 2],
+  const mid: [string, number][] = [['compass', 60], ['parts', (DR.pt0 + DR.pt1) / 2], ['courses', DR.bead], ['courses', (DR.crs0 + DR.crs1) / 2], ['correction', (DR.cor0 + DR.cor1) / 2],
     ['position', (DR.mo0 + DR.mo1) / 2], ['uncorrected', (DR.um0 + DR.um1) / 2], ['bearing', DR.band0 + 5], ['sky', (DR.horizon + DR.band1) / 2]];
   for (const [key, r] of mid) for (const a of [0, 1.3, 4]) assert.equal(hitBand(r * Math.sin(a), -r * Math.cos(a)), key, `r = ${r} at ${a} rad`);
   assert.equal(hitBand(0, DR.band1 + 30), null);                      // off the face
 });
-test('the week has its own ring between the parts and the courses, and the rings do not overlap', () => {
-  assert.ok(DR.pt1 < DR.wk0 && DR.wk0 < DR.wk1 && DR.wk1 < DR.crs0 && DR.crs0 < DR.crs1 && DR.crs1 < DR.cor0);
+test('the week\'s beads lie between the parts and the courses\' cells, and the rings do not overlap', () => {
+  assert.ok(DR.pt1 < DR.bead && DR.bead < DR.crs0 && DR.crs0 < DR.crs1 && DR.crs1 < DR.cor0);
   let last = hitBand(0, -1);
   const order = [last];
   for (let r = 1; r < DR.band1; r += 0.5) { const k = hitBand(0, -r); if (k !== last && k) { order.push(k); last = k; } else if (k !== last) last = k; }
-  assert.deepEqual(order, ['compass', 'parts', 'weekday', 'courses', 'correction', 'position', 'uncorrected', 'bearing', 'sky']);   // each once, in this order from the centre
+  assert.deepEqual(order, ['compass', 'parts', 'courses', 'correction', 'position', 'uncorrected', 'bearing', 'sky']);   // each once, in this order from the centre
 });

diff --git a/src/palette.ts b/src/palette.ts
@@ -21,13 +21,13 @@ export const DARK = {
   mercury: '#c4a98a', venus: '#f6e6b0', mars: '#c76b4a', jupiter: '#e0b878', saturn: '#d8b45e', uranus: '#9cc7c9', neptune: '#7c95c9',
   starInk: '#ece3cf', skyGround: '#050403', skyDay: '#3a2c17',
   globeSea: '#0a0a0c', globeSeaDay: '#171511', globeLand: '#26231e', globeLandDay: '#705c3a', globePolar: '#782622',
-  onGold: '#120e08',
   // the Dial (theme.css: rings of light on space, the colours of the sky's day)
   dlSpace0: '#13151f', dlSpace1: '#0a0b11', dlSpace2: '#050506', dlRim0: '#0a0b11', dlRim1: '#050506', dlDisc: '#07080c', dlLine: '#8a867d',
   dlSkyDay: '#fff0c2', dlSkyAmber: '#ffc468', dlSkyEmber: '#ff7a4c', dlSkyViolet: '#9676e0', dlSkyNight: '#8ea5ee',
   dlPday: '#ffd071', dlPnight: '#a3b9f7', dlRunDay: '#ffe9ad', dlRunNight: '#b9c9ff', dlRunInk: '#2a1f08',
   dlRed: '#f55a36', dlOx: '#2a1713', dlOx2: '#3b1e17', dlOxEdge: '#050506',
-  dlGlass: '#b2c4ee', dlCourse: '#e6ebf8', dlCount: '#c3c9d6', dlCountDim: '#666d7c', dlLit: '#fff6d8', dlLitEdge: '#e9cf8a',
+  dlGlass: '#b2c4ee', dlCourse: '#e6ebf8', dlCount: '#c3c9d6', dlCountDim: '#666d7c', dlLit: '#fff6d8', dlLitEdge: '#e9cf8a', dlOnLit: '#120e08',
+  dlToneCourse: '#15171d', dlToneCourse2: '#101217', dlToneCount: '#0f1014', dlToneParts: '#0a0b11', dlToneBearing: '#0a0b11',
 };
 export type PaletteKey = keyof typeof DARK;
 export type Palette = Readonly<Record<PaletteKey, string>>;

diff --git a/README.md b/README.md
@@ -22,9 +22,9 @@ Five views share one time cursor:
   horizon marks where). **Paths** draws the day's course of the Sun, the Moon and each planet (solid behind it, dotted
   ahead), and of the body you follow.
 - **The Dial.** Every layer of the calendar on one face, each ring turned onto the Sun's line, with the planets, Moon and
-  bright stars: rings of light on space, what is now lit (the month, the course, the weekday, the part of the day and how far
-  through its 20 degrees). Each weekday's arc is that day's own sky, gold its light and blue its night. Frame it north-up,
-  Sun-up or by compass.
+  bright stars: rings of light on space, what is now lit (the month, the course, the day of the week, the part of the day and
+  how far through its 20 degrees), beside the day's own sky, gold its light and blue its night. Frame it north-up, Sun-up
+  or by compass.
 - **The Day.** The Sky and the Dial together, sunrise to sunrise: the sky turns with the Sun and the Dial is turned to face
   it, joined by a gold thread through the Sun (sky over dial on a phone, side by side on a wide screen). Captions name each
   rising and setting as the day reaches it, and the day bar under it moves through the day. Both halves zoom: pinch or scroll the
